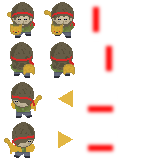
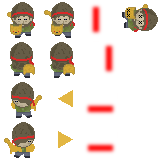
You can die and respawn now.

Changed region(s): [[0.75, 0.0312, 1.0, 0.2188]]

diff --git a/static/lazercatz.js b/static/lazercatz.js
@@ -9,6 +9,7 @@ var LC = {
 		this.orientation = orientation;
 		this.nick = nick;
 		this.lazer = null;
+		this.dead = true;
 
 		this.draw = function () {
 			var x_offset = this.offset[0] - LC.map_offset[0],
@@ -47,13 +48,21 @@ var LC = {
 				);
 			}
 		};
+
+		this.die = function ( killer ) {
+			if( LC.user.dead ) { return; }
+			LC.faye.publish( '/die', { uniqueID: LC.user.id, killerID: killer } );
+			LC.user.dead = true;
+			setTimeout( function () { LC.user.sprite = "cat"; LC.spawn(); }, 1500 );
+		};
 	},
 
-	lazer: function ( orientation, strength, origin ) {
+	lazer: function ( orientation, strength, origin, owner ) {
 		this.offset = origin;
 		this.sprite = 'beam';
 		this.orientation = orientation;
 		this.strength = strength;
+		this.owner = owner
 
 		this.move_by = [0,0];
 
@@ -122,19 +131,39 @@ var LC = {
 			this.clear();
 			--this.strength;
 			if( 0 == this.strength ) {
-				this.strength = -3;
+				this.strength = -4;
 				var self = this;
 				setTimeout( function () { self.recharge(); } , 250 );
 				return;
 			}
 			this.offset[0] = this.offset[0] + this.move_by[0];
 			this.offset[1] = this.offset[1] + this.move_by[1];
+
+			if(
+				this.offset[0] == LC.user.offset[0] &&
+				this.offset[0] == LC.user.offset[0]
+			) {
+				this.strength = 0;
+				LC.user.die( this.owner );
+				return;
+			}
+
 			this.draw();
 			var self = this;
 			setTimeout( function () { self.move(); } , 50 );
 		};
+
 		this.offset[0] = this.offset[0] + this.move_by[0];
 		this.offset[1] = this.offset[1] + this.move_by[1];
+		if(
+				this.offset[0] == LC.user.offset[0] &&
+				this.offset[0] == LC.user.offset[0]
+			) {
+				this.strength = 0;
+				LC.user.die( this.owner );
+				return;
+		}
+
 		this.draw();
 		this.move();
 	},
@@ -162,7 +191,11 @@ var LC = {
 		'beam_south':  [ 80, 0, 40, 40 ],
 		'beam_north':  [ 80, 40, 40, 40 ],
 		'beam_east' :  [ 80, 80, 40, 40 ],
-		'beam_west' :  [ 80, 120, 40, 40 ]
+		'beam_west' :  [ 80, 120, 40, 40 ],
+		'death_north': [ 120, 0, 40, 40 ],
+		'death_south': [ 120, 0, 40, 40 ],
+		'death_east': [ 120, 0, 40, 40 ],
+		'death_west': [ 120, 0, 40, 40 ]
 	},
 
 	/////// ELEMENTS ///////
@@ -210,6 +243,7 @@ var LC = {
 
 			LC.message( LC.user.nick + ' joined the game' );
 			LC.users.append( $( "<li></li>" ).text( LC.user.nick ).addClass( LC.user.id ) );
+			LC.objects[LC.user.id] = LC.user;
 
 			// Load all the other's into the object array & the user list
 			for( var idx in config.them ) {
@@ -246,8 +280,23 @@ var LC = {
 
 			LC.faye.subscribe( '/fire', function ( message ) {
 				if( message.uniqueID != LC.user.id ) {
-					LC.objects[message.uniqueID].lazer = new LC.lazer( message.orientation, message.strength, message.origin );
+					LC.objects[message.uniqueID].lazer = new LC.lazer( message.orientation, message.strength, message.origin, message.uniqueID );
 				}
+			} );
+
+			LC.faye.subscribe( '/die', function ( message ) {
+				LC.message( LC.objects[message.killerID].nick + " killed " + LC.objects[message.uniqueID].nick );
+				LC.objects[message.uniqueID].clear();
+				LC.objects[message.uniqueID].sprite = 'death';
+				LC.objects[message.uniqueID].draw();
+			} );
+
+			LC.faye.subscribe( '/spawn', function ( message ) {
+				LC.objects[message.uniqueID].clear();
+				LC.objects[message.uniqueID].sprite = 'cat';
+				LC.objects[message.uniqueID].offset[0] = message.offset[0];
+				LC.objects[message.uniqueID].offset[1] = message.offset[1];
+				LC.objects[message.uniqueID].draw();
 			} );
 
 			LC.spawn();
@@ -308,6 +357,7 @@ var LC = {
 
 	// Capture key events and trigger actions based on them
 	keyUp: function ( e ) {
+		if( LC.user.dead ) { return; }
 		switch ( e.which ) {
 			case 37:
 				LC.moveUser( 'w' );
@@ -343,13 +393,9 @@ var LC = {
 			if( obj != LC.user.id ) { LC.objects[obj].draw(); }
 		}
 
-// 		edge_proximity = [
-// 			( LC.map_offset[0] + LC.VIEWPORT_WIDTH - LC.user.offset[0] ),
-// 			( LC.map_offset[1] + LC.VIEWPORT_HEIGHT - LC.user.offset[1] )
-// 		]
-// 		$( '#edge-proximity' ).val( edge_proximity[0] + ', ' + edge_proximity[1] );
-// 		$( '#map-offset' ).val( LC.map_offset[0] + ', ' + LC.map_offset[1] );
-// 		$( '#user-offset' ).val( LC.user.offset[0] + ', ' + LC.user.offset[1] );
+		LC.user.dead = false;
+
+		LC.faye.publish( '/spawn', { uniqueID: LC.user.id, offset: LC.user.offset } );
 	},
 
 	// Move the user one tile in a direction (n,s,e,w)
@@ -421,7 +467,7 @@ var LC = {
 		var offset = $.extend( {}, LC.user.offset ),
 				origin = $.extend( {}, LC.user.offset );
 		LC.faye.publish( '/fire', { origin: origin, uniqueID: LC.user.id, orientation: LC.user.orientation, strength: 5 } );
-		LC.user.lazer = new LC.lazer( LC.user.orientation, 5, offset );
+		LC.user.lazer = new LC.lazer( LC.user.orientation, 5, offset, LC.user.id );
 	}
 
 }
